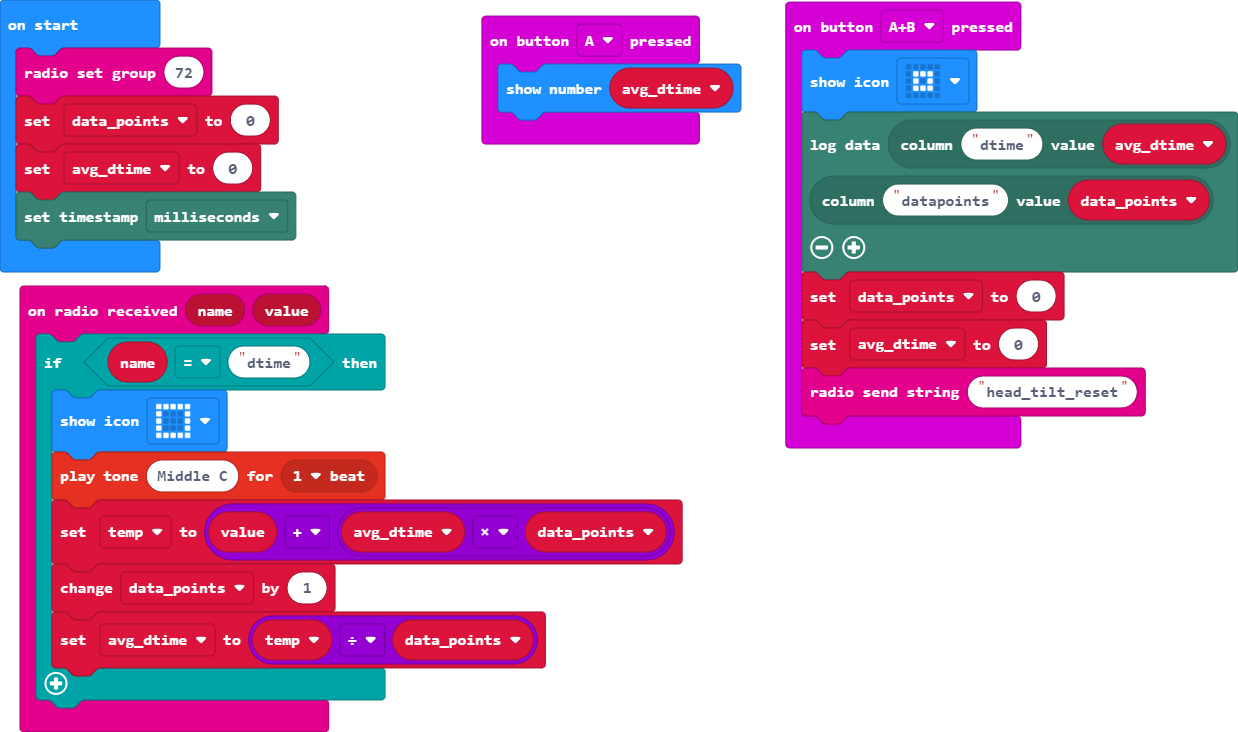
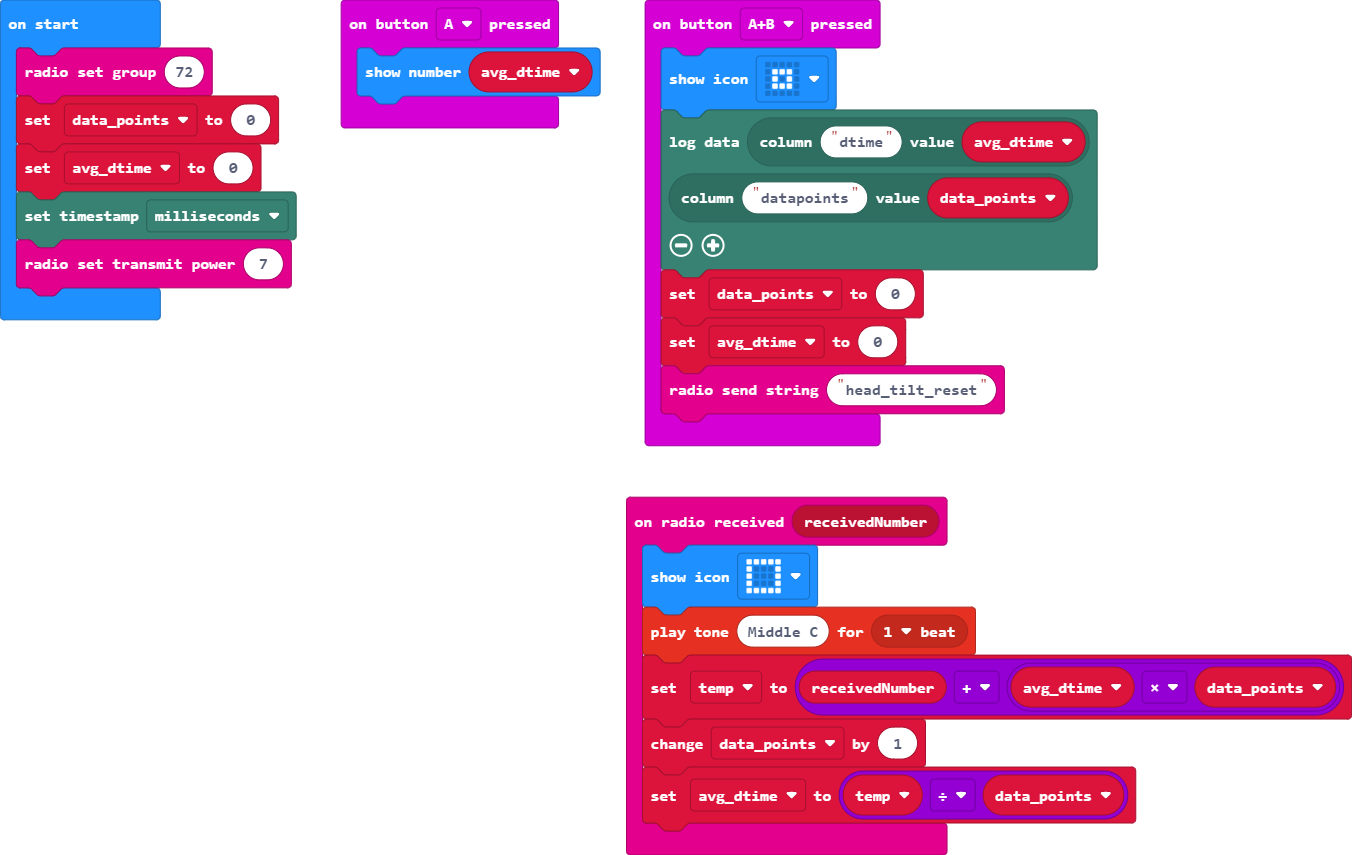
Update main.blocks, main.ts

diff --git a/main.ts b/main.ts
@@ -1,3 +1,10 @@
+radio.onReceivedNumber(function (receivedNumber) {
+    basic.showIcon(IconNames.Square)
+    music.playTone(262, music.beat(BeatFraction.Whole))
+    temp = receivedNumber + avg_dtime * data_points
+    data_points += 1
+    avg_dtime = temp / data_points
+})
 input.onButtonPressed(Button.A, function () {
     basic.showNumber(avg_dtime)
 })
@@ -11,15 +18,6 @@ input.onButtonPressed(Button.AB, function () {
     avg_dtime = 0
     radio.sendString("head_tilt_reset")
 })
-radio.onReceivedValue(function (name, value) {
-    if (name == "dtime") {
-        basic.showIcon(IconNames.Square)
-        music.playTone(262, music.beat(BeatFraction.Whole))
-        temp = value + avg_dtime * data_points
-        data_points += 1
-        avg_dtime = temp / data_points
-    }
-})
 let temp = 0
 let avg_dtime = 0
 let data_points = 0
@@ -27,3 +25,4 @@ radio.setGroup(72)
 data_points = 0
 avg_dtime = 0
 datalogger.includeTimestamp(FlashLogTimeStampFormat.Milliseconds)
+radio.setTransmitPower(7)
